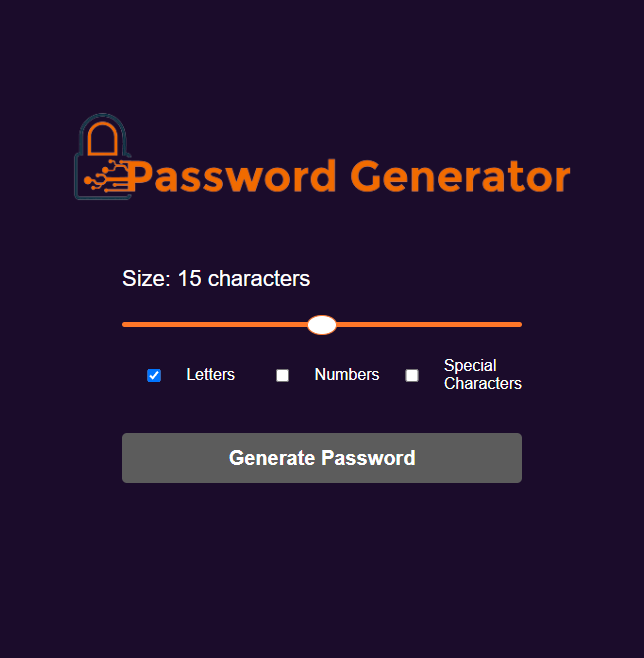
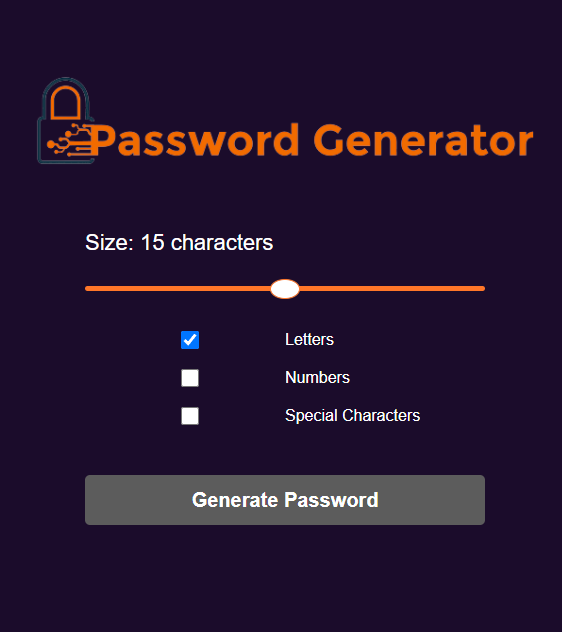
update styles

diff --git a/style/style.css b/style/style.css
@@ -29,7 +29,8 @@ body {
   padding: 10px;
 }
 
-.checkBox {
+.checkBoxes input,
+.checkBoxes label {
   cursor: pointer;
 }
 
